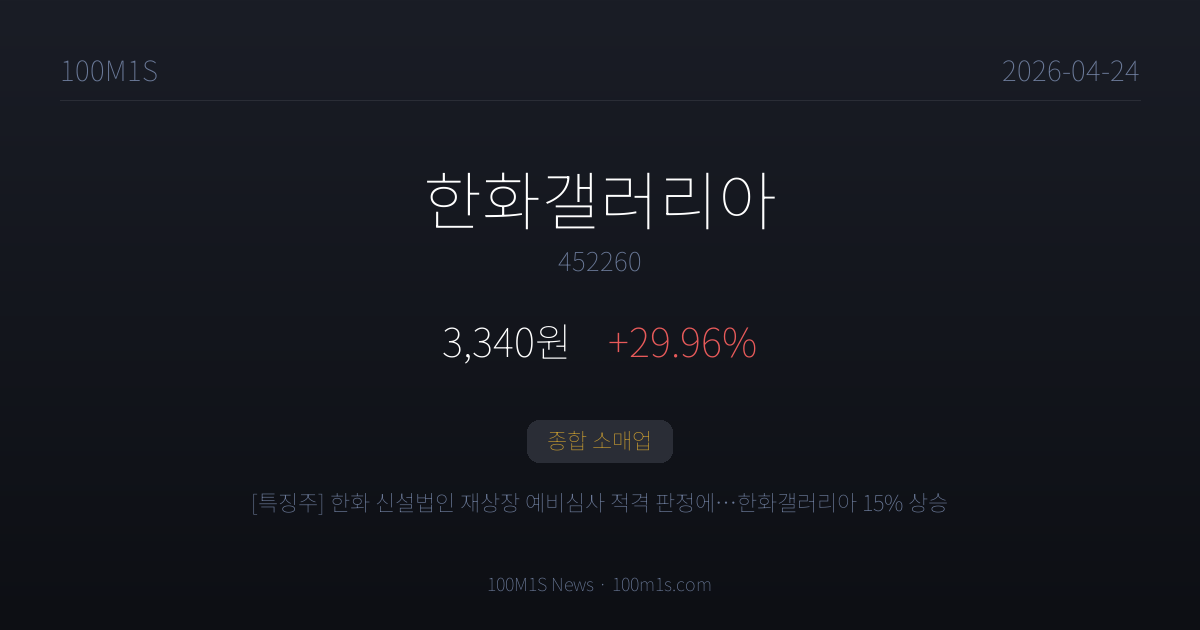
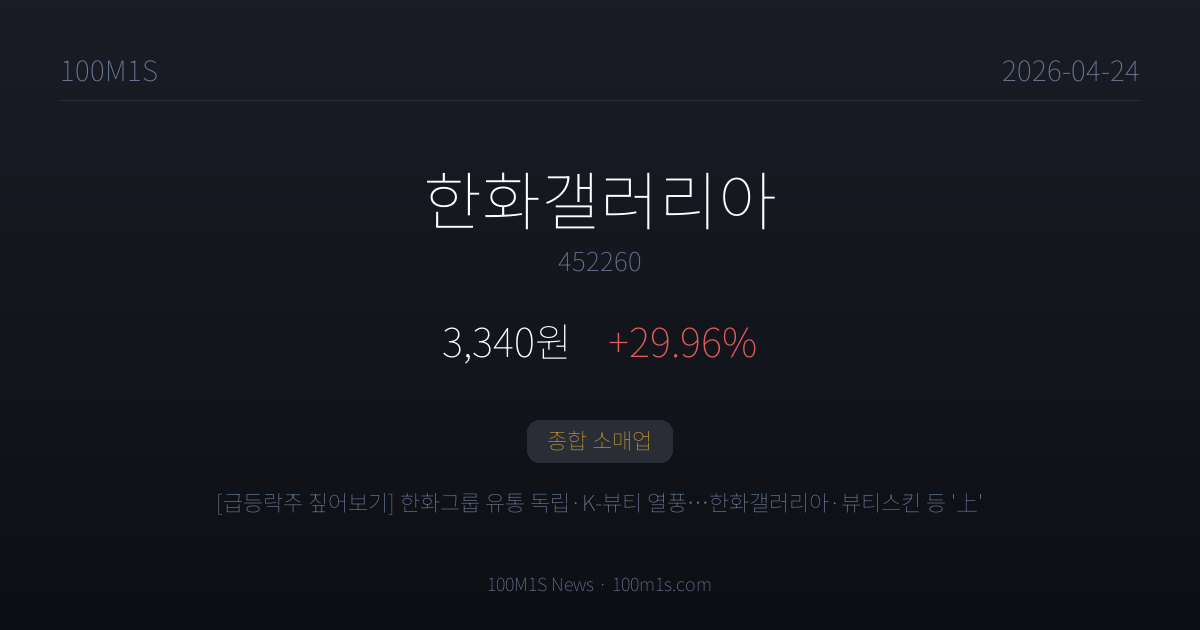
chore(news): 2026-04-24T16:26 pipeline

Changed region(s): [[0.185, 0.7841, 0.8017, 0.8143]]

diff --git a/news/stock/2026-04-24/452260.html b/news/stock/2026-04-24/452260.html
@@ -4,7 +4,7 @@
 <meta charset="UTF-8">
 <title>한화갤러리아 (452260) · 100M1S</title>
 <meta property="og:title" content="한화갤러리아 (452260) · 100M1S">
-<meta property="og:description" content="[특징주] 한화 신설법인 재상장 예비심사 적격 판정에…한화갤러리아 15% 상승">
+<meta property="og:description" content="[급등락주 짚어보기] 한화그룹 유통 독립·K-뷰티 열풍…한화갤러리아·뷰티스킨 등 '上'">
 <meta property="og:image" content="https://100m1s.com/og/news/stock/2026-04-24/452260.png">
 <meta property="og:image:width" content="1200">
 <meta property="og:image:height" content="630">
